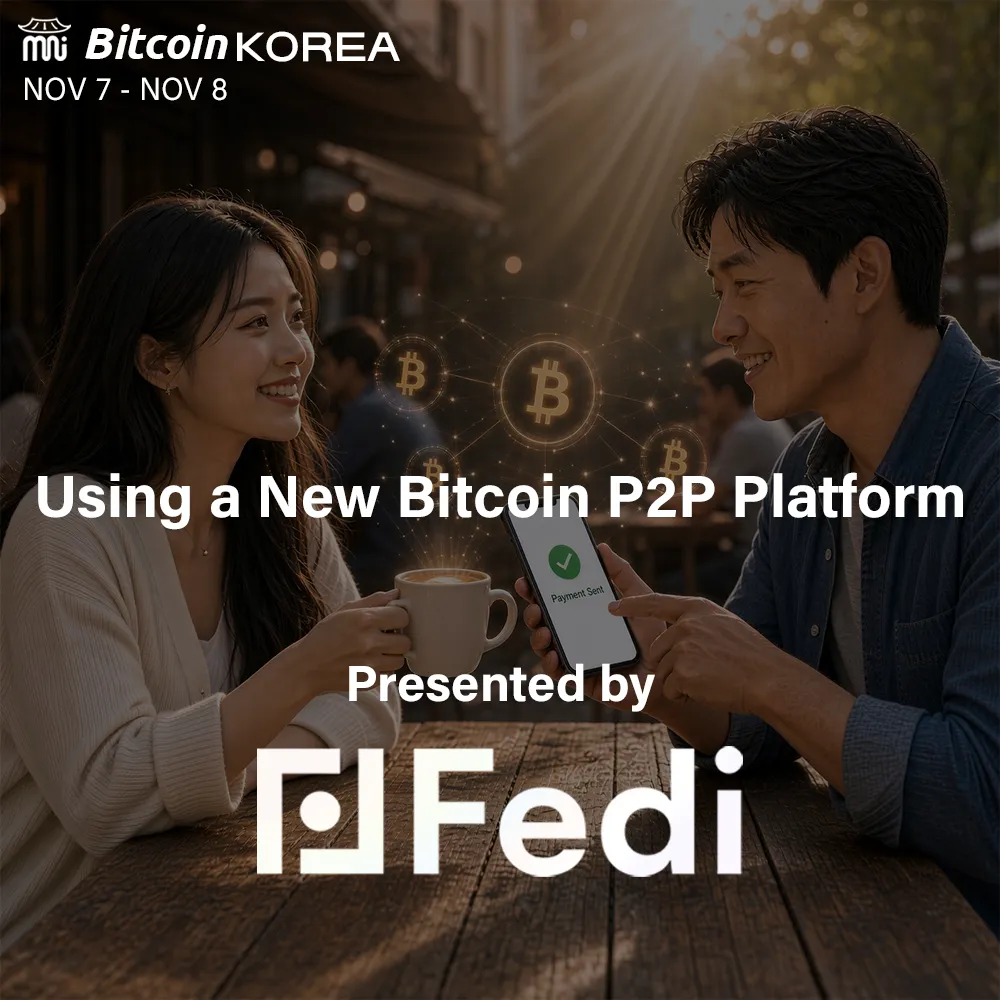
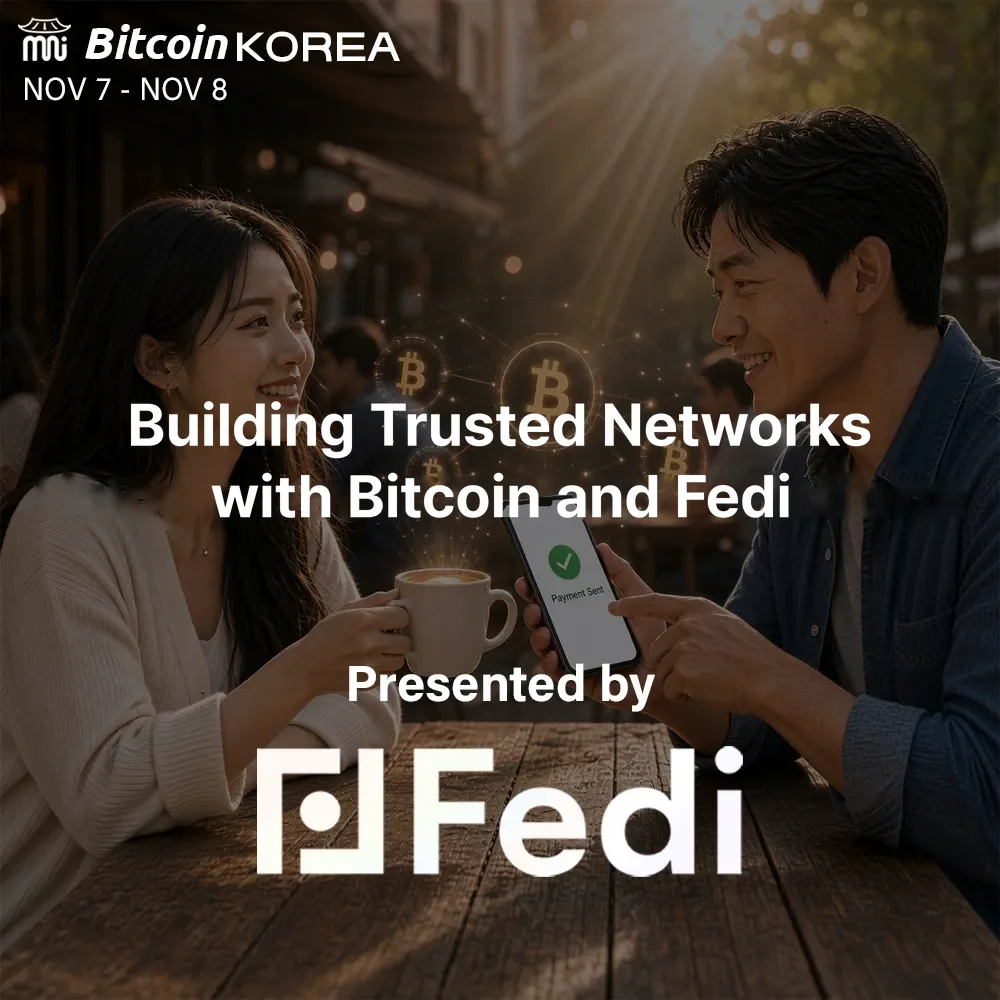
feat: update Fedi P2P platform event details and add new images

Changed region(s): [[0.031, 0.403, 0.961, 0.527]]

diff --git a/app/messages/2026/sideEvents.ts b/app/messages/2026/sideEvents.ts
@@ -278,22 +278,22 @@ const items: SideEventSource[] = [
     links: [],
     i18n: {
       en: {
-        title: "Using a New Bitcoin P2P Platform",
+        title: "Building Trusted Networks with Bitcoin and Fedi",
         host: "Dea Rezkitha (Fedi)",
         date: "Sun, Nov 8, 2026 · 13:00 – 14:00",
         shortDescription:
-          "Fedi introduces its new P2P platform in a private session where the team and users can talk directly.",
+          "Fedi introduces Building Trusted Networks with Bitcoin and Fedi in a private session where the team and users can talk directly.",
         description:
-          "An introduction to Fedi's new P2P platform, and a chance for the company and its users to talk directly with one another. This is a private event — if you'd like to join, please reach out to admin@bitomun.com.\n\nSchedule: Sunday, November 8, 2026, 13:00 – 14:00\n\nVenue: Shared with registered attendees only\n\nCapacity: 10 people\n\nFee: Free",
+          "An introduction to Building Trusted Networks with Bitcoin and Fedi, and a chance for the company and its users to talk directly with one another. This is a private event — if you'd like to join, please reach out to admin@bitomun.com.\n\nSchedule: Sunday, November 8, 2026, 13:00 – 14:00\n\nVenue: Shared with registered attendees only\n\nCapacity: 10 people\n\nFee: Free",
       },
       ko: {
-        title: "새로운 비트코인 플랫폼 소개",
+        title: "Building Trusted Networks with Bitcoin and Fedi",
         host: "Dea Rezkitha (Fedi)",
         date: "2026년 11월 8일 (일) 13:00 – 14:00",
         shortDescription:
-          "Fedi의 새로운 P2P 플랫폼을 소개하고, 기업과 유저가 직접 소통하는 프라이빗 세션.",
+          "Fedi가 Building Trusted Networks with Bitcoin and Fedi를 소개하고, 기업과 유저가 직접 소통하는 프라이빗 세션.",
         description:
-          "Fedi 기업의 새로운 플랫폼인 P2P 플랫폼을 소개하고 기업과 유저간의 소통이 이루어지는 자리입니다. 해당 이벤트는 프라이빗으로 진행하여 신청을 원할경우 admin@bitomun.com으로 연락 주세요.\n\n일정: 2026년 11월 8일 (일) 오후 01:00 ~ 02:00\n\n장소: 신청자에 한하여 공개\n\n정원: 10명\n\n비용: 무료",
+          "Fedi 기업이 Building Trusted Networks with Bitcoin and Fedi를 소개하고 기업과 유저간의 소통이 이루어지는 자리입니다. 해당 이벤트는 프라이빗으로 진행하여 신청을 원할경우 admin@bitomun.com으로 연락 주세요.\n\n일정: 2026년 11월 8일 (일) 오후 01:00 ~ 02:00\n\n장소: 신청자에 한하여 공개\n\n정원: 10명\n\n비용: 무료",
       },
     },
   },
